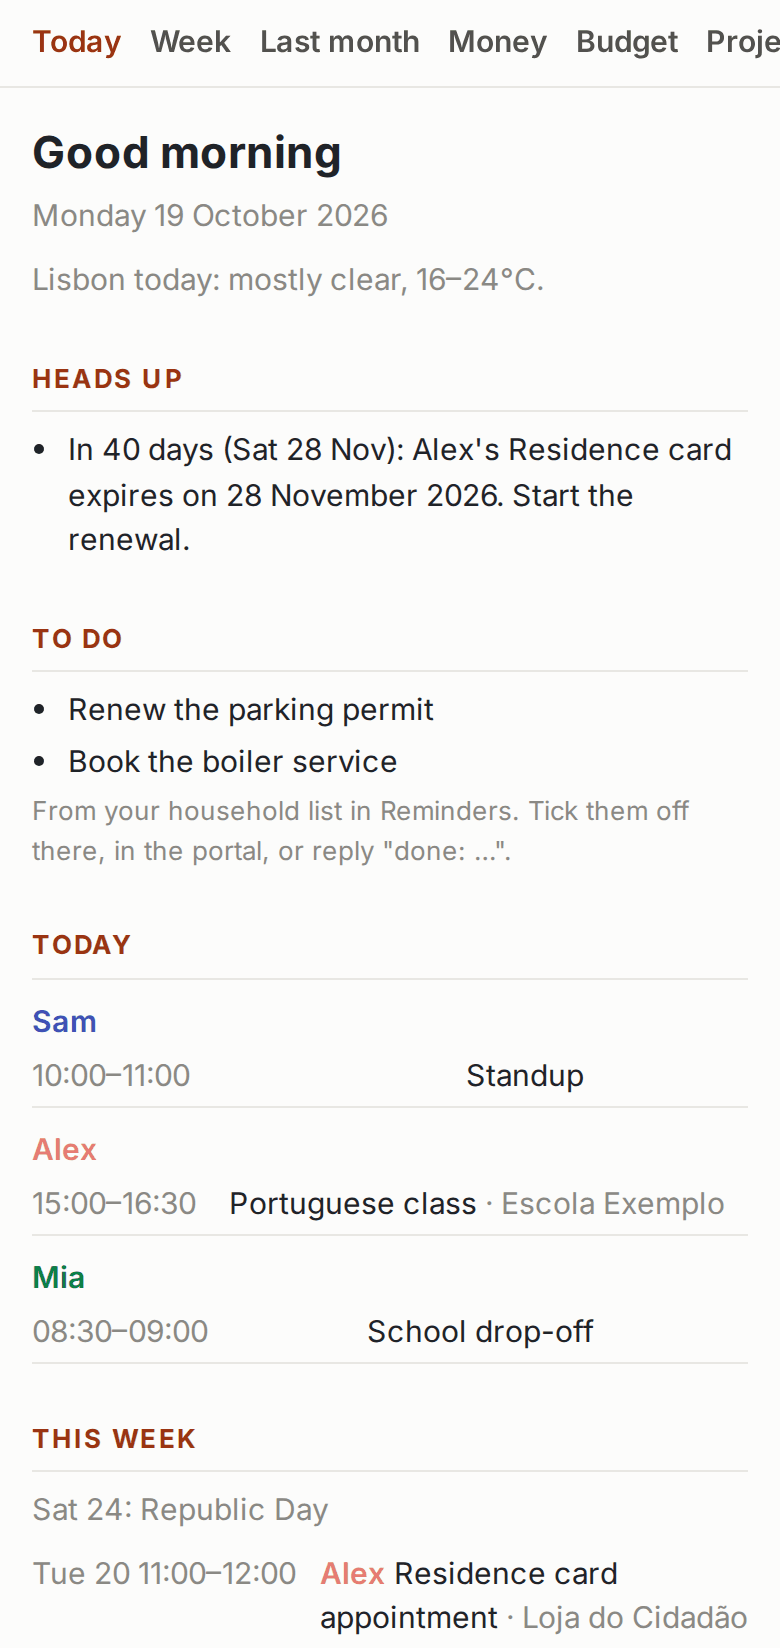
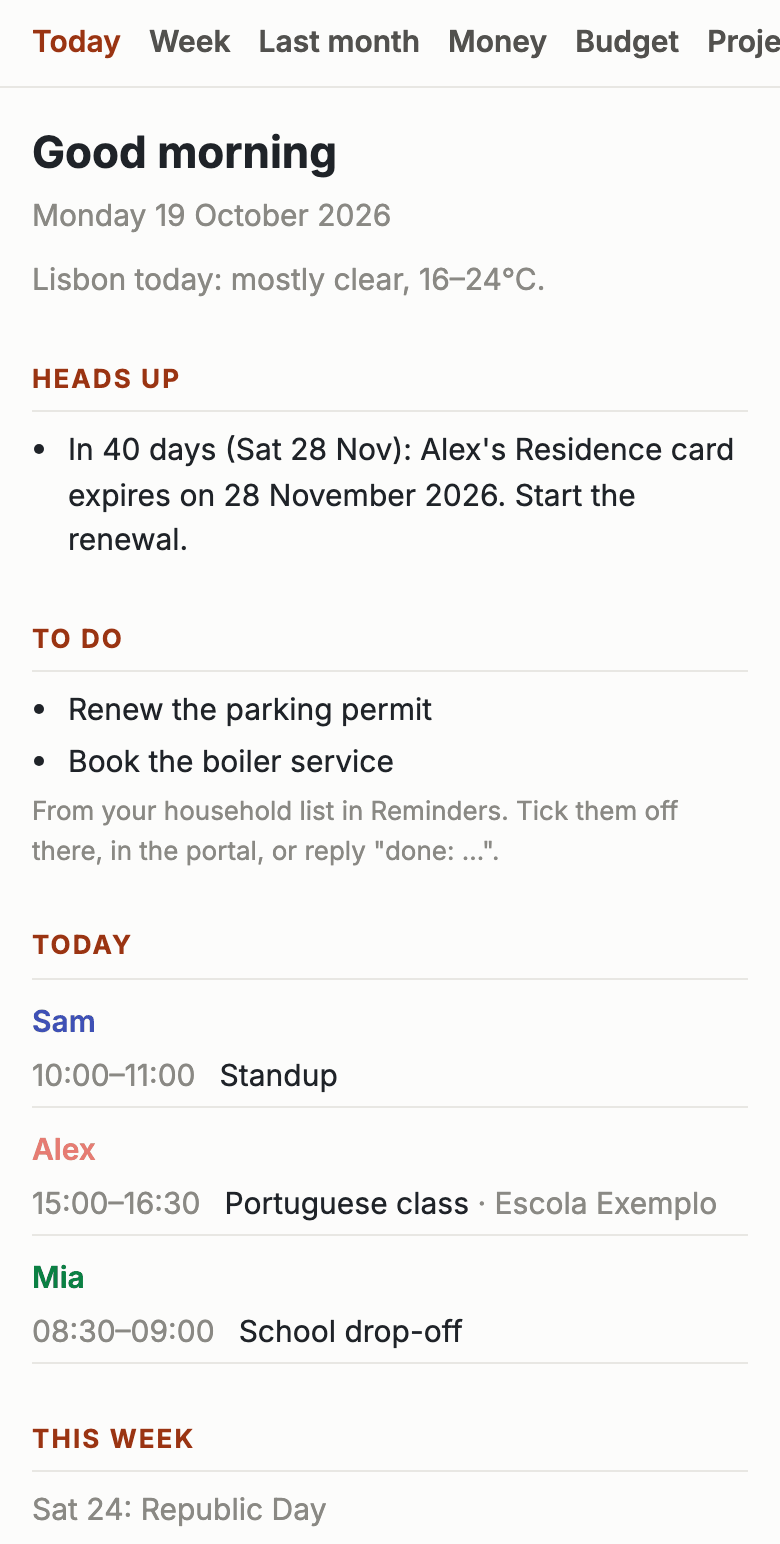
Screenshots show a believable month; portal titles follow their times
The screenshot run lays a money overlay on the test fixtures: Thursday cash withdrawals that
cover Pat's pay, a café in place of the unexplained payee, and balances that move from day to
day, with an older net worth snapshot. The shared fixtures stay as they are.

In the portal, full-width tables pushed the emails' event titles toward the middle of the row.
The time column now stays as narrow as its text, checked at phone and desktop widths.

The README images and the screenshot font are export-ignore, so the package, install.sh and
updates leave them out.

Claude-Session: https://claude.ai/code/session_01Wfs4hHgkjXCvPZ9JWHpTW7

diff --git a/scripts/screenshots.py b/scripts/screenshots.py
@@ -11,8 +11,9 @@ Nothing is sent and nothing leaves the machine.
 Pinned, so the images change only when Butler's rendering does:
 - the clock: the letter on Sunday 18 October 2026 at 17:00, the brief and the portal on Monday
   19 October at 07:00, Lisbon time (time-machine, inside the Butler processes only);
-- the data: the test fixtures (calendar, Reminders, Lunch Money, weather), invented news from
-  invented outlets, and a fixed Sunday-letter text written from the letter's own numbers;
+- the data: the test fixtures (calendar, Reminders, Lunch Money, weather) with a money overlay
+  (cash withdrawals, a café, daily balances), invented news from invented outlets, and a fixed
+  Sunday-letter text written from the letter's own numbers;
 - the fonts: Inter (scripts/fonts, OFL), with DejaVu Sans from matplotlib for other symbols;
 - the browser: light mode, fixed viewports, Playwright's Chromium at the pinned version.
 
@@ -21,6 +22,7 @@ Pinned, so the images change only when Butler's rendering does:
 
 import argparse
 import base64
+import copy
 import io
 import json
 import os
@@ -30,7 +32,7 @@ import socket
 import subprocess
 import sys
 import time
-from datetime import datetime, timedelta
+from datetime import date, datetime, timedelta
 from pathlib import Path
 from types import SimpleNamespace
 from zoneinfo import ZoneInfo
@@ -76,6 +78,49 @@ NEWS = {
          "The survey found hundreds of species, several of them thought to be new to science."),
     ]),
 }
+
+
+# The test fixtures' money, with three changes so the pictures read like a real month: Thursday
+# cash withdrawals that cover Pat's Friday pay (the fixtures have none, so the drawer estimate
+# goes negative), an ordinary café in place of the fixtures' unexplained payee, and account
+# balances that move a little from day to day.
+CAFE = ("Pastelaria Exemplo", 14.60, "Restaurants")
+ATM = ("ATM WITHDRAWAL", 200.00, "", "Everyday Checking")     # the example cash_drawer's top-up
+WEEK_BEFORE = date(2026, 10, 11)                               # an older net worth snapshot
+BALANCES = {   # day: (Everyday Checking in EUR, Brokerage in USD, EUR per USD)
+    WEEK_BEFORE: (4630.10, 51400.00, 0.8590),
+    LETTER_AT.date(): (4268.35, 52000.00, 0.8600),
+    BRIEF_AT.date(): (4253.75, 52000.00, 0.8600),
+}
+
+
+def _money_overlay(fixtures) -> None:
+    """Serves the transactions above, dated from the brief's day whatever window is asked for."""
+    day = BRIEF_AT.date()
+    rows = [(day - timedelta(days=back), *(CAFE if payee.startswith("Mystery") else (payee, amount, category)),
+             account) for back, payee, amount, category, account in fixtures.TRANSACTIONS]
+    thursday = date(2026, 9, 3)       # the week before Pat's first Friday (cash_drawer.recurring.since)
+    while thursday < day:
+        rows.append((thursday, *ATM))
+        thursday += timedelta(days=7)
+    serve = fixtures.transactions
+
+    def transactions(start: date, end: date) -> list[dict]:
+        fixtures.TRANSACTIONS = [((end - d).days, payee, amount, category, account)
+                                 for d, payee, amount, category, account in rows]
+        return serve(start, end)
+    fixtures.transactions = transactions
+
+
+def _balances(fixtures, day: date) -> None:
+    checking, usd, rate = BALANCES[day]
+    accounts = copy.deepcopy(fixtures.PLAID_ACCOUNTS)
+    for a in accounts:
+        if a["name"] == "Everyday Checking":
+            a["balance"], a["to_base"] = f"{checking:.2f}", checking
+        elif a["currency"] == "usd":
+            a["balance"], a["to_base"] = f"{usd:.2f}", round(usd * rate, 2)
+    fixtures.PLAID_ACCOUNTS = accounts
 
 
 # ---------- inside the throwaway install ----------
@@ -127,7 +172,15 @@ def stage(name: str, port: int) -> None:
     feedparser.parse = _feed
     canned = harness._canned
     harness._canned = lambda kind, prompt: _letter_words(prompt) if kind == "weekly" else canned(kind, prompt)
-    time_machine.travel(LETTER_AT if name == "letter" else BRIEF_AT, tick=False).start()
+    import fixtures        # the same module the fakes answer from
+    _money_overlay(fixtures)
+    if name == "letter":
+        from butler import networth
+        _balances(fixtures, WEEK_BEFORE)
+        networth.snapshot(WEEK_BEFORE)
+    at = LETTER_AT if name == "letter" else BRIEF_AT
+    _balances(fixtures, at.date())
+    time_machine.travel(at, tick=False).start()
     if name == "letter":
         from butler import weekly
         sys.argv = ["weekly", "--dry-run"]

diff --git a/tests/test_screenshots.py b/tests/test_screenshots.py
@@ -87,5 +87,34 @@ class ScreenshotsTest(unittest.TestCase):
             self.assertEqual((self.runs[0] / name).read_bytes(), (self.runs[1] / name).read_bytes(), name)
 
 
+@unittest.skipIf(NOT_READY and not REQUIRED, NOT_READY)
+class PortalLayoutTest(unittest.TestCase):
+    """The emails' event rows inside the portal, where tables are full width: the time column stays
+    as narrow as its text, so a short title sits right after its time at every width."""
+
+    def test_titles_follow_their_times(self):
+        from datetime import datetime
+        from types import SimpleNamespace
+
+        from playwright.sync_api import sync_playwright
+
+        from butler import portal, render
+        event = SimpleNamespace(start=datetime(2026, 10, 19, 10), location="", title="Standup",
+                                time_label=lambda: "10:00–11:00")
+        html = (f"<style>{portal.CSS}</style><main><div class='brief'><div style='max-width:640px'>"
+                f"<table style='border-collapse:collapse'>{render._event_row(event)}</table></div></div></main>")
+        with sync_playwright() as p:
+            browser = p.chromium.launch()
+            for width in (390, 1100):
+                page = browser.new_page(viewport={"width": width, "height": 600})
+                page.set_content(html)
+                cell = page.eval_on_selector("td", "e => e.getBoundingClientRect().width")
+                text = page.eval_on_selector("td", "e => { const r = document.createRange(); "
+                                                   "r.selectNodeContents(e); return r.getBoundingClientRect().width; }")
+                self.assertLess(cell, text + 30, f"{width}px wide: the time column is {cell:.0f}px")
+                page.close()
+            browser.close()
+
+
 if __name__ == "__main__":
     unittest.main()

diff --git a/tests/test_packaging.py b/tests/test_packaging.py
@@ -97,6 +97,19 @@ class PostinstallTest(unittest.TestCase):
         self.assertFalse(self.opened.exists())
 
 
+@unittest.skipUnless((REPO / ".git").exists(), "needs a git checkout")
+class ArchiveTest(unittest.TestCase):
+    """The package and scripts/install.sh copy the repository with git archive (or GitHub's archive
+    tarball, which follows the same rules). The README's images and the screenshot font stay out."""
+
+    def test_readme_images_and_fonts_stay_out_of_installs(self):
+        files = subprocess.run("git archive --worktree-attributes HEAD | tar -t", shell=True, cwd=REPO,
+                               capture_output=True, text=True, check=True).stdout.splitlines()
+        self.assertIn("README.md", files)
+        self.assertIn("scripts/install.sh", files)
+        self.assertEqual([f for f in files if f.startswith(("docs/images", "scripts/fonts"))], [])
+
+
 @unittest.skipUnless(shutil.which("pkgbuild") and shutil.which("productbuild"), "needs macOS packaging tools")
 class BuildPackageTest(unittest.TestCase):
     @classmethod
@@ -132,6 +145,7 @@ class BuildPackageTest(unittest.TestCase):
         for path in files:
             self.assertFalse(path.startswith("./Butler/.github"), path)
             self.assertFalse(path.startswith("./Butler/packaging"), path)
+            self.assertFalse(path.startswith(("./Butler/docs/images", "./Butler/scripts/fonts")), path)
             # Never the household's own files.
             self.assertNotRegex(path, r"^\./Butler/(config/(?!.*\.example\.)[^/]+\.yaml|data/|projects/|budget/budget\.xlsx)")
 

diff --git a/src/butler/portal.py b/src/butler/portal.py
@@ -146,6 +146,9 @@ details.step>summary{color:var(--ink)}
 .flash{background:var(--chip);border-radius:8px;padding:10px 12px;margin:10px 0;white-space:pre-line}
 .log{font-size:13px;color:var(--ink2);margin-top:2px}
 .brief img{max-width:100%;height:auto;border-radius:8px}a{color:var(--blue)}
+/* Tables here are full width; keep the emails' time column as narrow as its text, so each
+   event's title starts right after its time instead of drifting toward the middle. */
+.brief td[style*="white-space:nowrap"]{width:1%}
 /* The emails use fixed inline colors (render.py); map them onto this page's light/dark tokens. */
 .brief>div{background:transparent!important;padding:0!important}
 .brief [style*="color:#1f2328"]{color:var(--ink)!important}

diff --git a/docs/TESTING.md b/docs/TESTING.md
@@ -13,7 +13,7 @@ fails, it opens a GitHub issue.
 | Privacy | `tests/test_privacy.py` | Every push | An ID number, phone or secret reaching an email, a prompt, a log or a file; household details reaching the news call |
 | Contracts | `tests/test_contracts.py` | Every push | Claude schemas that aren't strict, a reply action that could delete, the test stub drifting from the Swift helper, renamed course steps or scripts |
 | Dates | `tests.yml`, `dates` job | Every push | Failures on the 1st, at month and year ends, and on DST changes (libfaketime) |
-| Screenshots | `tests/test_screenshots.py` | Every push (Linux) | The README images failing to build, coming out blank or the wrong size, or changing between two identical runs |
+| Screenshots | `tests/test_screenshots.py` | Every push (Linux) | The README images failing to build, coming out blank or the wrong size, or changing between two identical runs; event titles drifting away from their times in the portal |
 | macOS end to end | `tests/e2e/macos.sh` | Every push; weekly with the hosted installer | The installer, uv's Python, the first preview, the helper build and signature, launchd plists, shell scripts |
 | Skill evals | `tests/evals/run_evals.py` | Weekly and on demand (paid) | `/butler-setup install` and `/butler-doctor` not doing their job; Claude repeating or storing a pasted secret; Claude sending email |
 | Live contract | `tests/live/live_contract.py` | Weekly and on demand (paid) | The Claude API no longer accepting Butler's request shape (model, beta, fallbacks, thinking, effort, JSON schema) |
@@ -60,7 +60,7 @@ Everything that could make an image change between runs is pinned:
 | What | How |
 |---|---|
 | The clock | time-machine freezes the Butler processes at Sunday 18 October 2026, 17:00 (the letter) and Monday 19 October, 07:00 (the brief and the portal), Lisbon time |
-| The data | The test fixtures for the calendar, Reminders, Lunch Money and the weather. The news comes from invented stories by invented outlets, so no real outlet is quoted. The Sunday letter's Claude-written parts are fixed text built from the letter's own numbers |
+| The data | The test fixtures for the calendar, Reminders, Lunch Money and the weather. On top of them, for the pictures only: weekly cash withdrawals that cover the nanny's pay, an ordinary café in place of the fixtures' unexplained payee, and account balances that move a little from day to day. The tests' fixtures stay as they are. The news comes from invented stories by invented outlets, so no real outlet is quoted. The Sunday letter's Claude-written parts are fixed text built from the letter's own numbers |
 | The fonts | Inter (`scripts/fonts/`, SIL Open Font License), with DejaVu Sans from matplotlib for other symbols. No glyph comes from the operating system |
 | The browser | Chromium from the pinned Playwright version, light mode, fixed viewports. Requests outside 127.0.0.1 are blocked |
 | The files | 256-color PNGs without dithering, cropped between blocks of text, from pinned Pillow and matplotlib |
